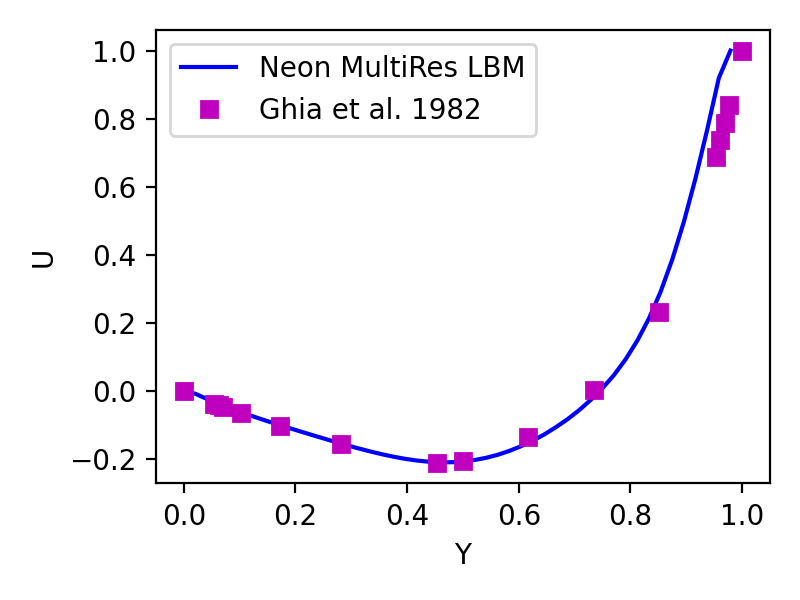
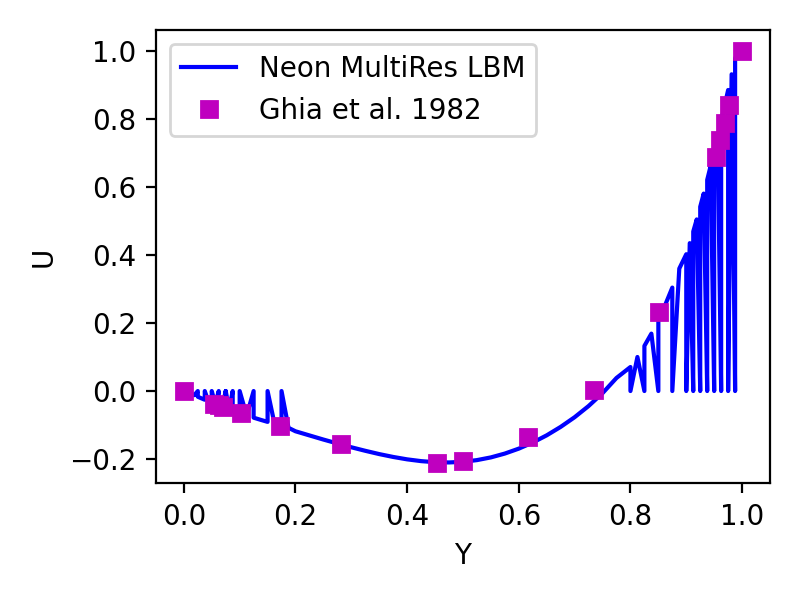
use large grid size

diff --git a/apps/lbmMultiRes/plot.py b/apps/lbmMultiRes/plot.py
@@ -7,7 +7,7 @@ import matplotlib.pyplot as plt
 fig, axes = plt.subplots(nrows=1, ncols=1, figsize=(4, 3), dpi=200)
 
 
-y_neon, u_neon = np.loadtxt('NeonMultiResLBM_135000.dat', unpack=True, usecols=(0, 1))
+y_neon, u_neon = np.loadtxt('NeonMultiResLBM_10000.dat', unpack=True, usecols=(0, 1))
 p = y_neon.argsort()
 u_neon = u_neon[p]
 y_neon = y_neon[p]
